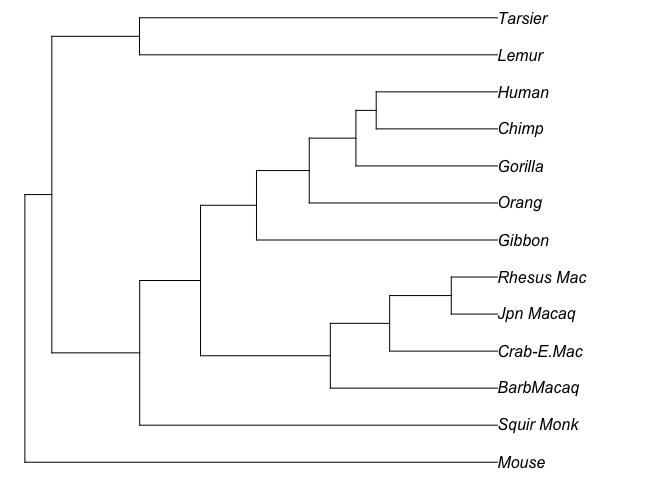
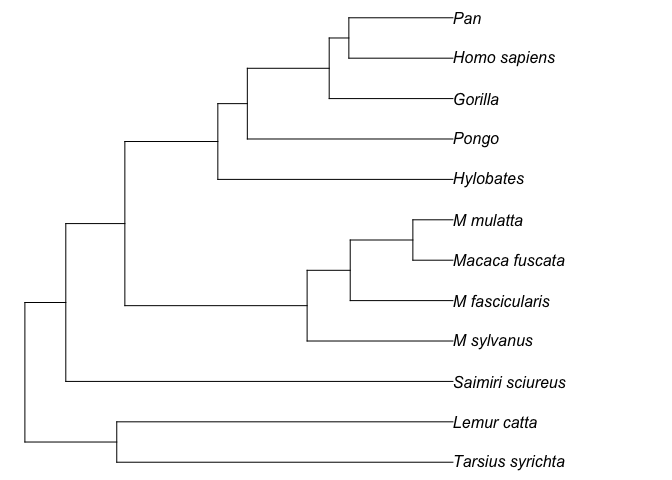
change dataset

diff --git a/Lab1.md b/Lab1.md
@@ -89,21 +89,12 @@ First load the alignment “primates”, and remove the outgroup sequence
 `read.phyDat("???.fasta", format = "fasta", type = "DNA")` is used to
 load the file alternatively.
 
-    fdir <- system.file("extdata/trees", package = "phangorn")
-    primates <- read.phyDat(file.path(fdir, "primates.dna"), format = "interleaved")
+    primates <- read.phyDat("primates.fasta", format = "fasta")
     names(primates)
 
-    ##  [1] "Mouse"      "Bovine"     "Lemur"      "Tarsier"    "Squir Monk"
-    ##  [6] "Jpn Macaq"  "Rhesus Mac" "Crab-E.Mac" "BarbMacaq"  "Gibbon"    
-    ## [11] "Orang"      "Gorilla"    "Chimp"      "Human"
-
-    # rm "Bovine"
-    primates <- primates[-2]
-    names(primates)
-
-    ##  [1] "Mouse"      "Lemur"      "Tarsier"    "Squir Monk" "Jpn Macaq" 
-    ##  [6] "Rhesus Mac" "Crab-E.Mac" "BarbMacaq"  "Gibbon"     "Orang"     
-    ## [11] "Gorilla"    "Chimp"      "Human"
+    ##  [1] "Tarsius_syrichta" "Lemur_catta"      "Homo_sapiens"     "Pan"             
+    ##  [5] "Gorilla"          "Pongo"            "Hylobates"        "Macaca_fuscata"  
+    ##  [9] "M_mulatta"        "M_fascicularis"   "M_sylvanus"       "Saimiri_sciureus"
 
 We can now create the UPGMA and NJ tree respectively.
 
@@ -127,7 +118,7 @@ Print the parsimony scores.
 
     parsimony(c(treeUPGMA, treeNJ), primates)
 
-    ## [1] 676 676
+    ## [1] 1153 1153
 
 We then can give a starting tree, and perform nearest-neighbor
 interchanges (NNI) to find the maximum parsimony tree.
@@ -140,74 +131,7 @@ In the end, plot the maximum parsimony tree.
 
 ![](Lab1_files/figure-markdown_strict/unnamed-chunk-13-1.png)
 
-### 2.4 Maximum likelihood
-
-The scripts below are using the maximum likelihood approach to estimate
-the parameters from “primates” data, and eventually create a maximum
-likelihood phylogenetic tree from the inference.
-
-First we create a NJ tree using F81 model as the starting tree.
-
-    dm <- dist.ml(primates, "F81")
-    # NJ starting tree
-    tree <- NJ(dm)
-
-Then we define the model to HKY + Γ(4) and optimise the parameters.
-
-    # HKY + Γ(4)
-    fitStart <- pml(tree, primates, k=4)
-    fitHKY <- optim.pml(fitStart, model="HKY", optGamma=TRUE, rearrangement="stochastic")
-
-The result is:
-
-    fitHKY
-
-    ## 
-    ##  loglikelihood: -2394.26 
-    ## 
-    ## unconstrained loglikelihood: -1230.335 
-    ## Discrete gamma model
-    ## Number of rate categories: 4 
-    ## Shape parameter: 5.984007 
-    ## 
-    ## Rate matrix:
-    ##          a        c        g        t
-    ## a  0.00000  1.00000 27.00971  1.00000
-    ## c  1.00000  0.00000  1.00000 27.00971
-    ## g 27.00971  1.00000  0.00000  1.00000
-    ## t  1.00000 27.00971  1.00000  0.00000
-    ## 
-    ## Base frequencies:  
-    ## 0.4013194 0.3738494 0.04584645 0.1789847
-
-Tips: you can use the command `str(fitHKY)` to list all available items
-inside “fitHKY”.
-
-As you can see, the result is an unrooted phylogenetic tree.
-
-    is.rooted(fitHKY$tree) 
-
-    ## [1] FALSE
-
-    plot(fitHKY$tree, type="unrooted")
-
-![](Lab1_files/figure-markdown_strict/unnamed-chunk-17-1.png)
-
-If you want to root the tree, one simple method is to use the function
-`root` and specify the outgroup taxon “Mouse”.
-
-    rt <- root(fitHKY$tree, outgroup = "Mouse", resolve.root = TRUE)
-
-The rooted maximum likelihood tree looks like:
-
-    plot(rt, use.edge.length=T, no.margin=TRUE)
-
-![](Lab1_files/figure-markdown_strict/unnamed-chunk-19-1.png)
-
-Add the command `edgelabels(round(rt$edge.length, 2))` to show all
-branch lengths.
-
-### 2.5 Model selection
+### 2.4 Model selection
 
 When you make a data analysis using the model-based approach, you need
 to know which model fits the best for the given data.
@@ -219,34 +143,101 @@ So we compare different nucleotide substitution models for “primates”.
     mt
 
     ##      Model df    logLik      AIC          AICw     AICc         AICcw      BIC
-    ## 1       JC 23 -2818.438 5682.876 1.629324e-184 5688.184 1.660059e-183 5762.151
-    ## 2     JC+I 24 -2815.792 5679.585 8.449229e-184 5685.382 6.739990e-183 5762.306
-    ## 3     JC+G 24 -2818.237 5684.474 7.328651e-185 5690.271 5.846099e-184 5767.196
-    ## 4   JC+G+I 25 -2815.826 5681.651 3.006045e-184 5687.962 1.854879e-183 5767.820
-    ## 5      F81 26 -2683.168 5418.336 4.531240e-127 5425.185 2.136437e-126 5507.951
-    ## 6    F81+I 27 -2677.850 5409.701 3.399091e-125 5417.112 1.209442e-124 5502.763
-    ## 7    F81+G 27 -2680.515 5415.029 2.367447e-126 5422.441 8.423696e-126 5508.091
-    ## 8  F81+G+I 28 -2677.767 5411.534 1.359271e-125 5419.534 3.604084e-125 5508.042
-    ## 9      K80 24 -2699.053 5446.106 4.228057e-133 5451.903 3.372741e-132 5528.827
-    ## 10   K80+I 25 -2693.723 5437.446 3.210843e-131 5443.756 1.981249e-130 5523.614
-    ## 11   K80+G 25 -2693.621 5437.242 3.555578e-131 5443.552 2.193968e-130 5523.410
-    ## 12 K80+G+I 26 -2692.239 5436.479 5.207237e-131 5443.327 2.455163e-130 5526.094
-    ## 13     HKY 27 -2402.037 4858.075  2.067164e-05 4865.487  7.355248e-05 4951.137
-    ## 14   HKY+I 28 -2396.784 4849.567  1.454682e-03 4857.567  3.857064e-03 4946.076
-    ## 15   HKY+G 28 -2392.302 4840.603  1.286044e-01 4848.603  3.409923e-01 4937.112
-    ## 16 HKY+G+I 29 -2391.678 4841.356  8.829212e-02 4849.969  1.722314e-01 4941.311
-    ## 17     SYM 28 -2581.477 5218.953  8.945313e-84 5226.953  2.371834e-83 5315.462
-    ## 18   SYM+I 29 -2580.819 5219.637  6.354722e-84 5228.251  1.239616e-83 5319.593
-    ## 19   SYM+G 29 -2576.284 5210.569  5.919007e-82 5219.183  1.154621e-81 5310.524
-    ## 20 SYM+G+I 30 -2576.285 5212.570  2.175875e-82 5221.824  3.082324e-82 5315.973
-    ## 21     GTR 31 -2396.518 4855.036  9.444772e-05 4864.956  9.588653e-05 4961.885
-    ## 22   GTR+I 32 -2390.046 4844.092  2.248034e-02 4854.705  1.613882e-02 4954.387
-    ## 23   GTR+G 32 -2387.171 4838.342  3.983124e-01 4848.955  2.859517e-01 4948.638
-    ## 24 GTR+G+I 33 -2386.270 4838.541  3.607409e-01 4849.874  1.806592e-01 4952.283
+    ## 1       JC 21 -6424.202 12890.40 5.776578e-308 12891.46 8.047355e-308 12991.21
+    ## 2     JC+I 22 -6277.781 12599.56 8.268615e-245 12600.72 1.094749e-244 12705.17
+    ## 3     JC+G 22 -6272.469 12588.94 1.676253e-242 12590.09 2.219328e-242 12694.54
+    ## 4   JC+G+I 23 -6270.538 12587.08 4.254397e-242 12588.34 5.340414e-242 12697.48
+    ## 5      F81 24 -6284.996 12617.99 8.232323e-249 12619.37 9.773868e-249 12733.20
+    ## 6    F81+I 25 -6117.436 12284.87 1.783726e-176 12286.36 1.998148e-176 12404.88
+    ## 7    F81+G 25 -6106.185 12262.37 1.373270e-171 12263.86 1.538351e-171 12382.37
+    ## 8  F81+G+I 26 -6104.500 12261.00 2.725220e-171 12262.61 2.873436e-171 12385.80
+    ## 9      K80 22 -6142.429 12328.86 5.011788e-186 12330.01 6.635515e-186 12434.46
+    ## 10   K80+I 23 -5974.905 11995.81 1.048150e-113 11997.07 1.315711e-113 12106.21
+    ## 11   K80+G 23 -5950.874 11947.75 2.865018e-103 11949.01 3.596370e-103 12058.15
+    ## 12 K80+G+I 24 -5950.597 11949.19 1.390521e-103 11950.57 1.650903e-103 12064.40
+    ## 13     HKY 25 -5981.720 12013.44 1.556217e-117 12014.93 1.743290e-117 12133.44
+    ## 14   HKY+I 26 -5768.004 11588.01  3.746022e-25 11589.62  3.949755e-25 11712.81
+    ## 15   HKY+G 26 -5712.072 11476.14  7.323769e-01 11477.75  7.722084e-01 11600.95
+    ## 16 HKY+G+I 27 -5713.339 11480.68  7.582086e-02 11482.42  7.506371e-02 11610.28
+    ## 17     SYM 26 -5989.382 12030.76 2.694652e-121 12032.38 2.841205e-121 12155.57
+    ## 18   SYM+I 27 -5844.315 11742.63  9.951246e-59 11744.37  9.851872e-59 11872.23
+    ## 19   SYM+G 27 -5821.757 11697.51  6.230636e-49 11699.25  6.168417e-49 11827.12
+    ## 20 SYM+G+I 28 -5820.776 11697.55  6.115290e-49 11699.42  5.670709e-49 11831.96
+    ## 21     GTR 29 -5934.148 11926.30  1.303952e-98 11928.30  1.129782e-98 12065.50
+    ## 22   GTR+I 30 -5757.269 11574.54  3.151727e-22 11576.68  2.545216e-22 11718.54
+    ## 23   GTR+G 30 -5709.633 11479.27  1.536484e-01 11481.41  1.240807e-01 11623.27
+    ## 24 GTR+G+I 31 -5710.026 11482.05  3.815379e-02 11484.34  2.864726e-02 11630.86
 
-As you can see, the “GTR+G+I” model has the best likelihood for
-“primates”. Therefore, we should choose “GTR+G+I” not “HKY+G” to run the
-phylogenetic analysis on this data.
+As you can see, the “GTR+G” model has the best likelihood for
+“primates”. Therefore, we should choose it to run the phylogenetic
+analysis on this data.
+
+### 2.5 Maximum likelihood
+
+The scripts below are using the maximum likelihood approach to estimate
+the parameters from “primates” data, and eventually create a maximum
+likelihood phylogenetic tree from the inference.
+
+First we create a NJ tree using F81 model as the starting tree.
+
+    dm <- dist.ml(primates, "F81")
+    # NJ starting tree
+    tree <- NJ(dm)
+
+Then we define the model to GTR + Γ(4) as the model selection suggested
+and optimise the parameters.
+
+    fitStart <- pml(tree, primates, k=4)
+    fitGTR <- optim.pml(fitStart, model="GTR", optGamma=TRUE, rearrangement="stochastic")
+
+The result is:
+
+    fitGTR
+
+    ## 
+    ##  loglikelihood: -5709.666 
+    ## 
+    ## unconstrained loglikelihood: -4184.818 
+    ## Discrete gamma model
+    ## Number of rate categories: 4 
+    ## Shape parameter: 0.3961103 
+    ## 
+    ## Rate matrix:
+    ##           a         c         g         t
+    ## a  0.000000  4.615653 45.006781  3.699344
+    ## c  4.615653  0.000000  2.622392 38.945966
+    ## g 45.006781  2.622392  0.000000  1.000000
+    ## t  3.699344 38.945966  1.000000  0.000000
+    ## 
+    ## Base frequencies:  
+    ## 0.3494849 0.3193111 0.08526572 0.2459383
+
+Tips: you can use the command `str(fitGTR)` to list all available items
+inside “fitGTR”.
+
+As you can see, the result is an unrooted phylogenetic tree.
+
+    is.rooted(fitGTR$tree) 
+
+    ## [1] FALSE
+
+    plot(fitGTR$tree, type="unrooted")
+
+![](Lab1_files/figure-markdown_strict/unnamed-chunk-19-1.png)
+
+If you want to root the tree, one simple method is to use the function
+`root` and specify the outgroup.
+
+    rt <- root(fitGTR$tree, outgroup = c("Tarsius_syrichta","Lemur_catta"), resolve.root = TRUE)
+
+The rooted maximum likelihood tree looks like:
+
+    plot(rt, use.edge.length=T, no.margin=TRUE)
+
+![](Lab1_files/figure-markdown_strict/unnamed-chunk-21-1.png)
+
+Add the command `edgelabels(round(rt$edge.length, 2))` to show all
+branch lengths.
 
 ## Assigment (15 marks)
 
